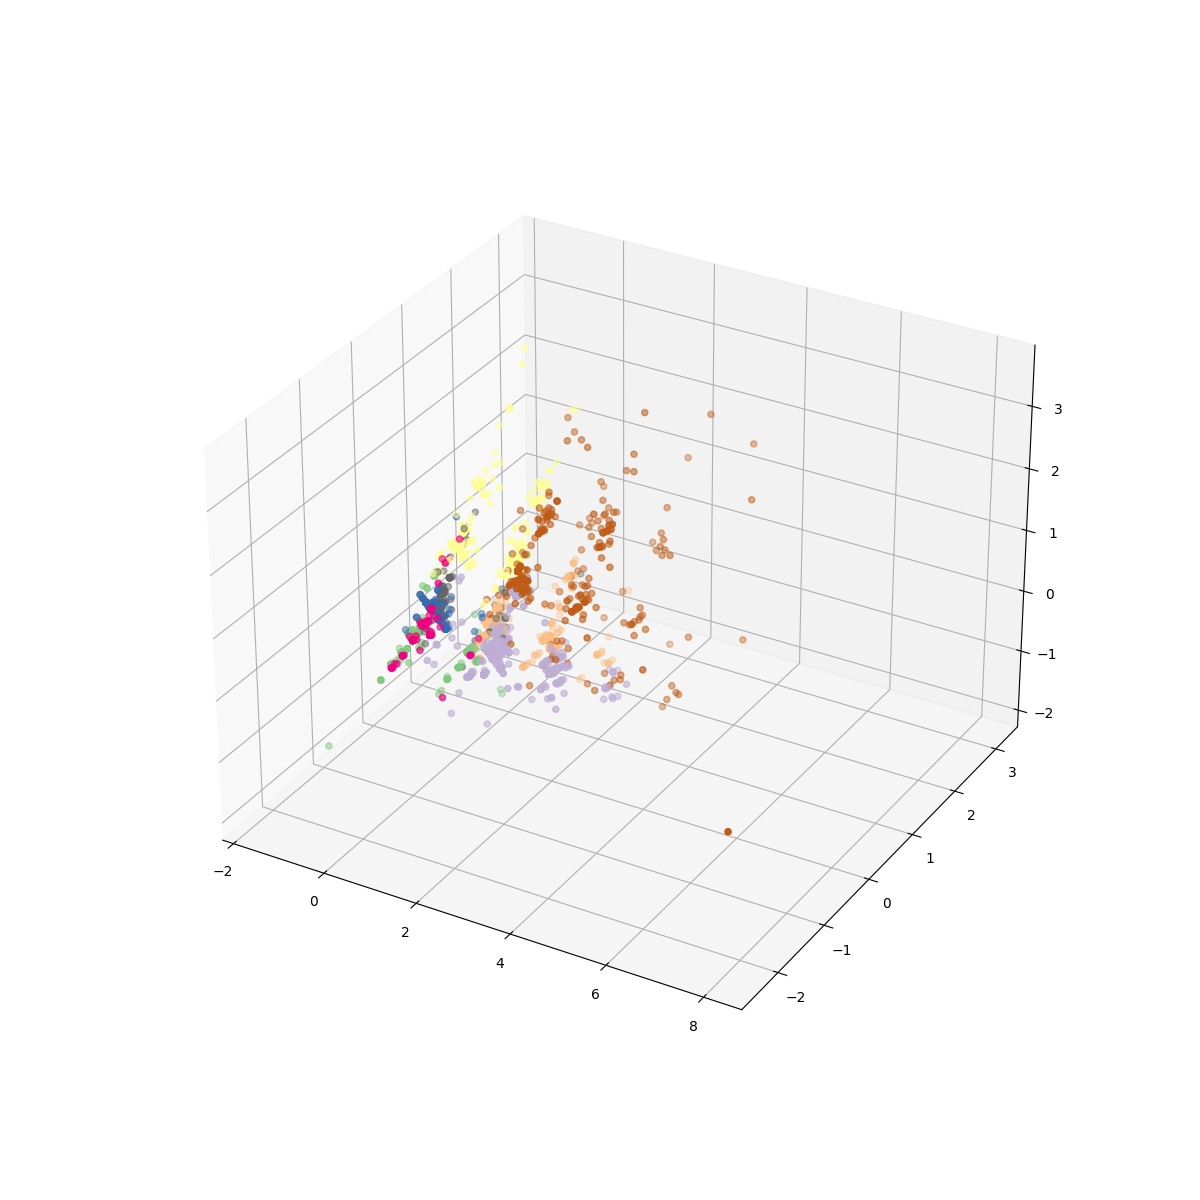
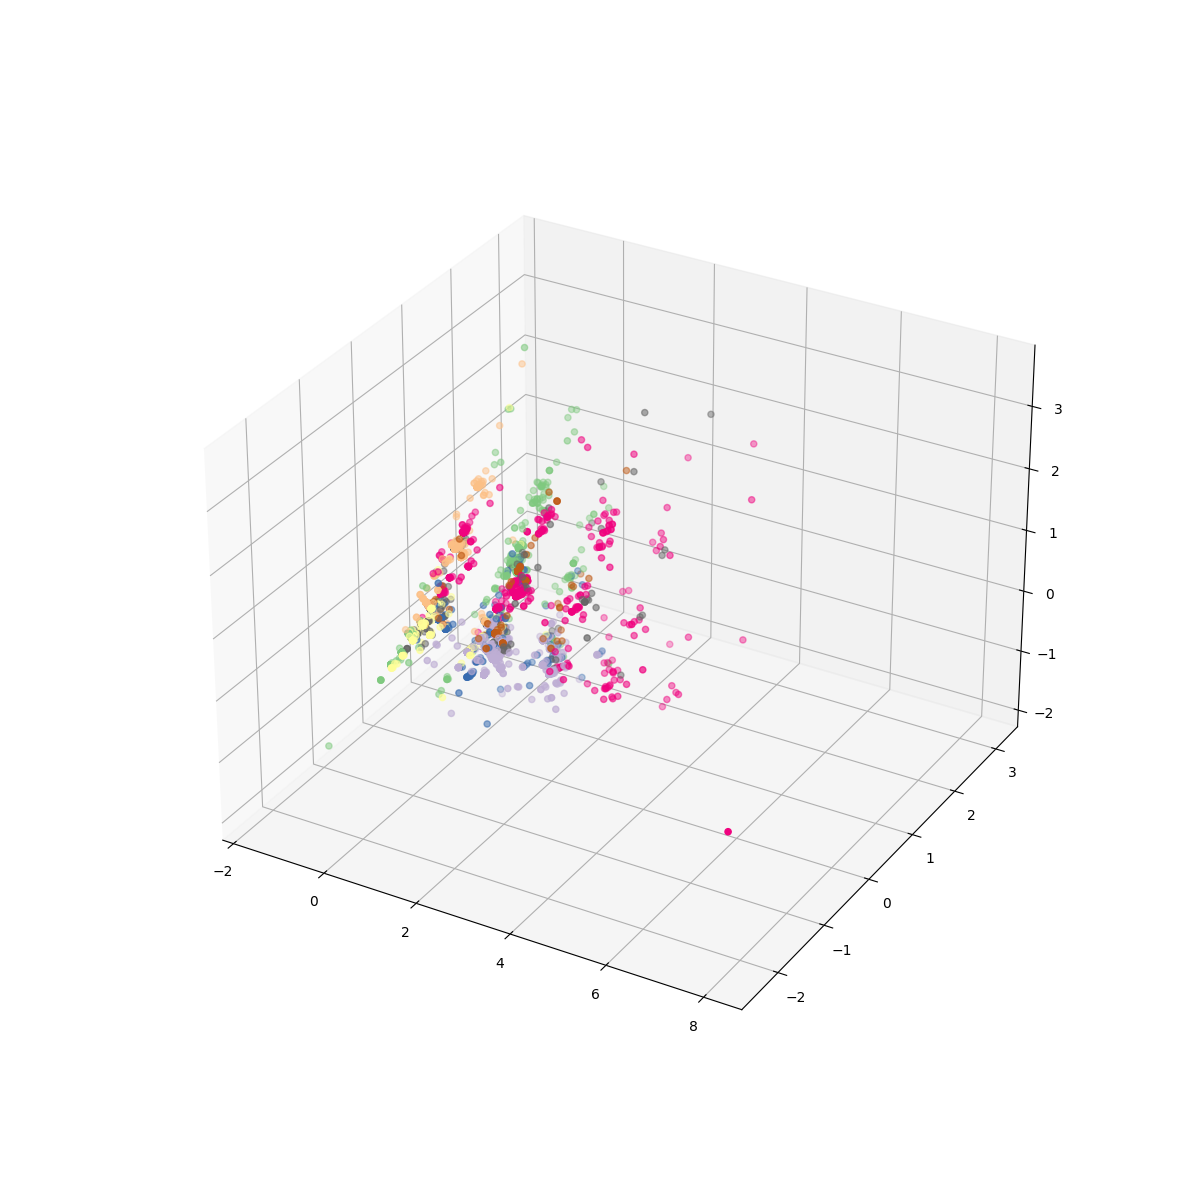
defined clusterinterest, added addresses to kmeans results

Changed region(s): [[0.3083, 0.37, 0.555, 0.5858], [0.555, 0.555, 0.5858, 0.5858], [0.4625, 0.3392, 0.4933, 0.37]]

diff --git a/ml.py b/ml.py
@@ -1,4 +1,4 @@
-
+'''NOTES: next steps... putting in addresses in, measuring tightness of clusters, cluster centers into 3d graph to help make sense of PCA, maybe put back in random state parameter'''
 '''third script'''
 import pandas as pd
 from sklearn.cluster import KMeans
@@ -15,9 +15,12 @@ permit_info = pd.read_csv('permits_by_address.csv')
 
 
 X=permit_info.drop('Address', axis=1)
+# print(X.columns.to_list())
+column_names = X.columns.to_list()
+print(column_names)
 # print(X.head())
 '''pca component in this case is grouping related data and attempting to keep the distance between them the same'''
-pca = PCA(n_components=3)
+pca = PCA(n_components=3, random_state=0)
 data_2_d = pca.fit_transform(X)
 x_2d=[point[0] for point in data_2_d]
 y_2d=[point[1] for point in data_2_d]
@@ -25,15 +28,28 @@ z_2d=[point[2] for point in data_2_d]
 # plt.scatter(x_2d, y_2d, marker="o", color="red")
 # plt.show()
 # print(pca.fit_transform(X))
-'''kmeans is just trying to find 8 groups of groups. kmeans creates the clusters'''
-kmeans = KMeans().fit(X)
+# print('pca components:::::::')
+# print(pca.components_)
 
+# print(pca.explained_variance_ratio_)
+'''kmeans is just trying to find 8 groups of groups. kmeans creates the clusters'''
+# kmeans = KMeans(random_state=0).fit(X)
+kmeans = KMeans(n_clusters=20).fit(X)
 
 # print(kmeans.predict(X))
 
 # permit_info['ML Cluster'] = kmeans.predict(X)
 ''' using color in plot below to illustrate clusters'''
 cluster = kmeans.predict(X)
+# print('kmeans cluster::::::')
+# print(kmeans.cluster_centers_)
+
+for cluster_i, cluster_data in enumerate(kmeans.cluster_centers_):
+    print(f'cluster index: {cluster_i}')
+    for permit_i, permit_importance in enumerate(cluster_data):
+        column_names[permit_i]
+        if permit_importance > 0.5:
+            print(f'permit index {column_names[permit_i]} permit importance: {permit_importance}')
 
 fig = plt.figure(figsize=(12, 12))
 ax = fig.add_subplot(projection='3d')
@@ -41,7 +57,7 @@ ax = fig.add_subplot(projection='3d')
 ax.scatter(x_2d, y_2d, z_2d, c=cluster, marker="o",cmap="Accent")
 
 fig.savefig('3d_cluster.png')
-plt.show()
+# plt.show()
 
 # permit_info.to_csv('ml_column_permits.csv')
 # print(kmeans.cluster_centers_)
